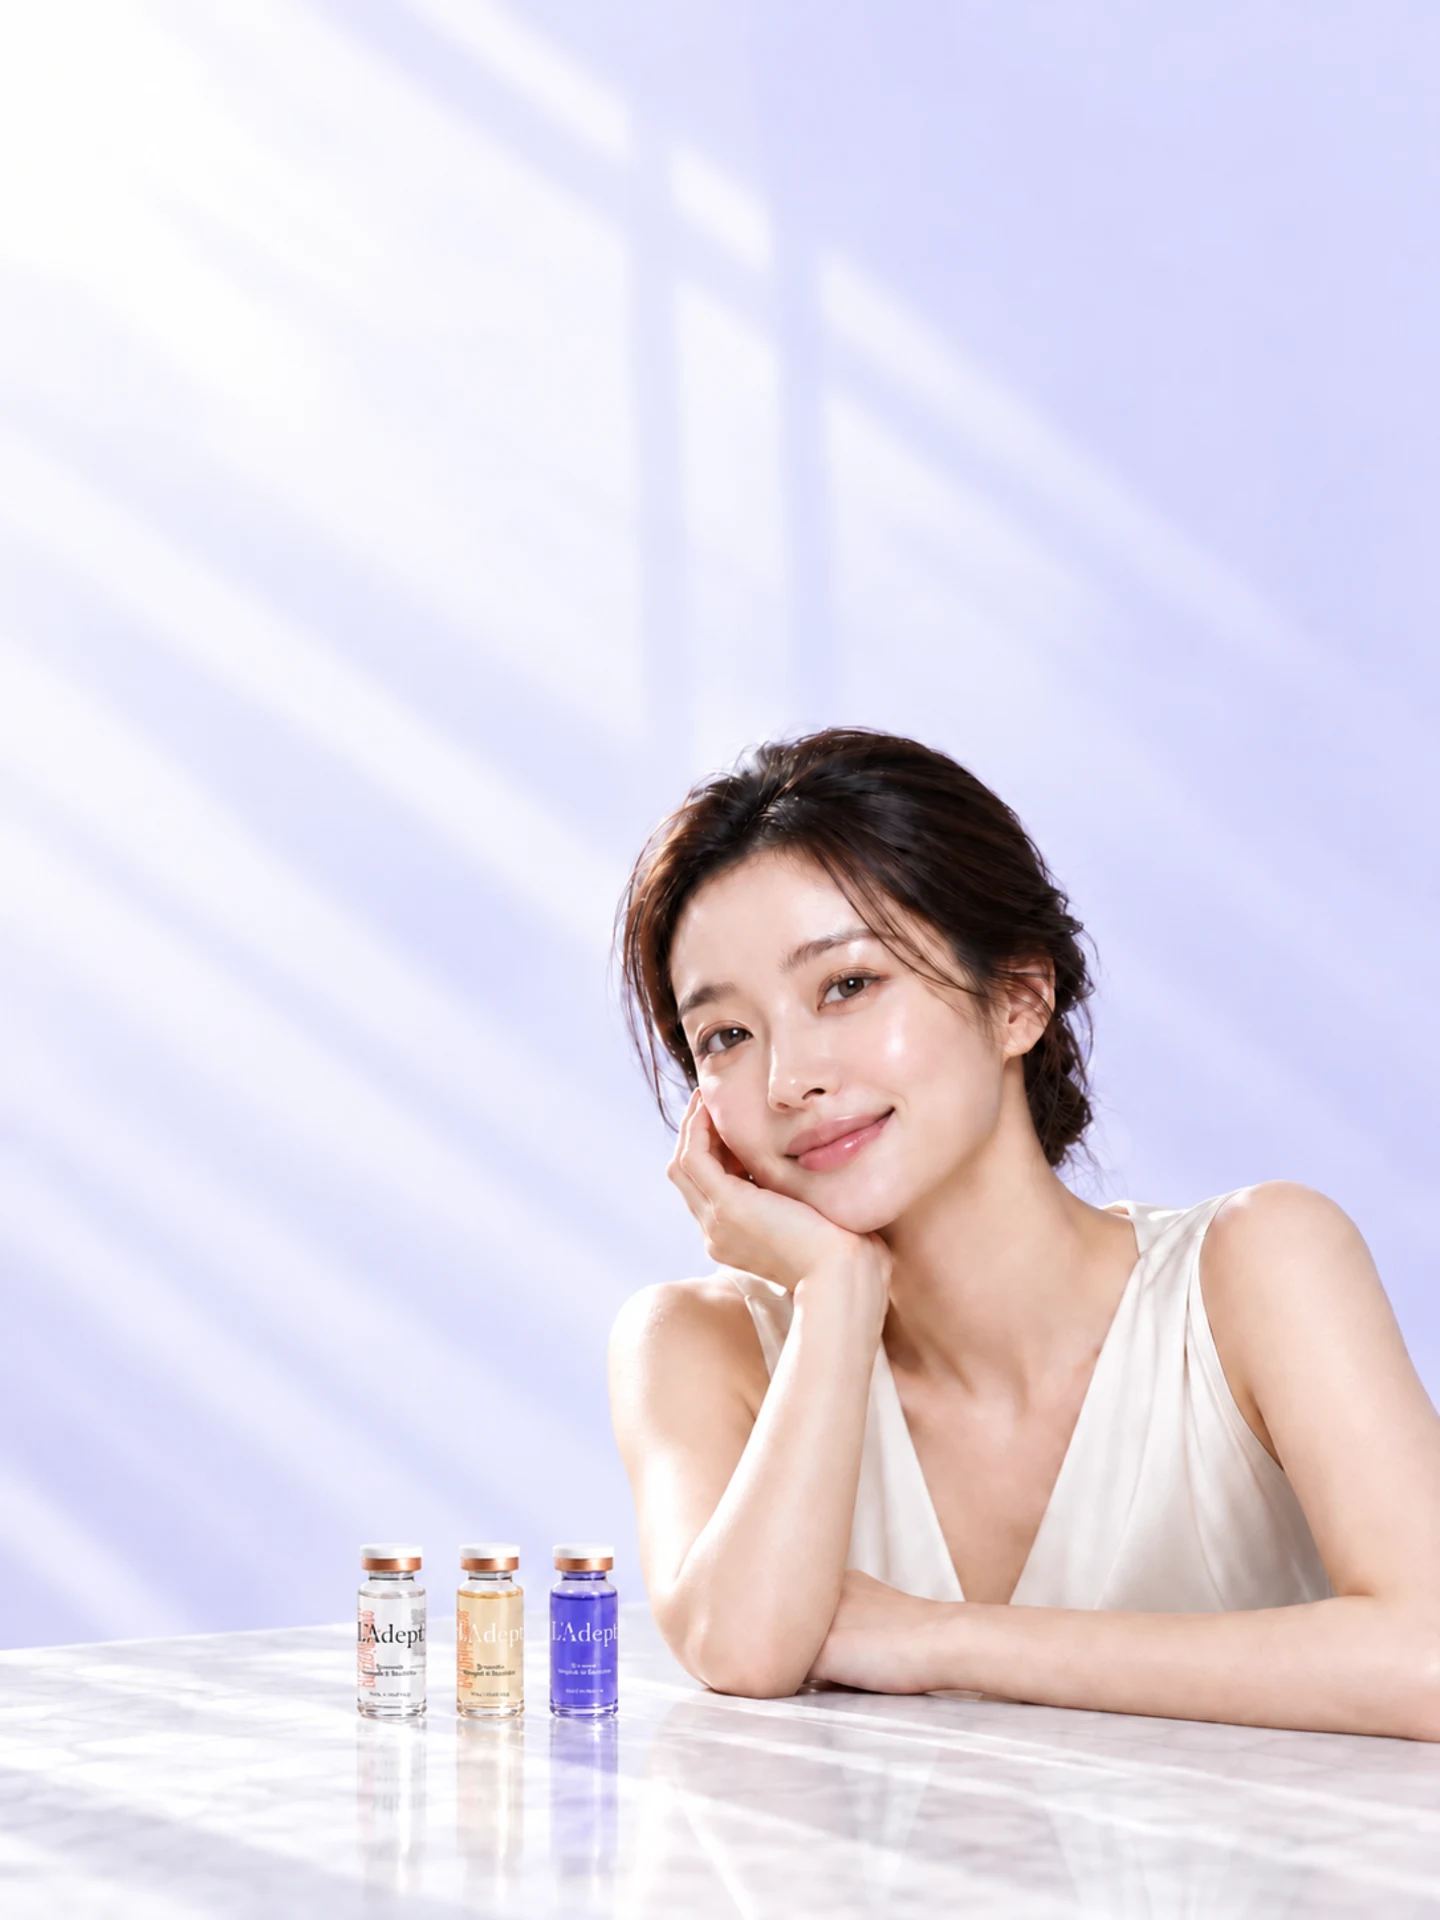
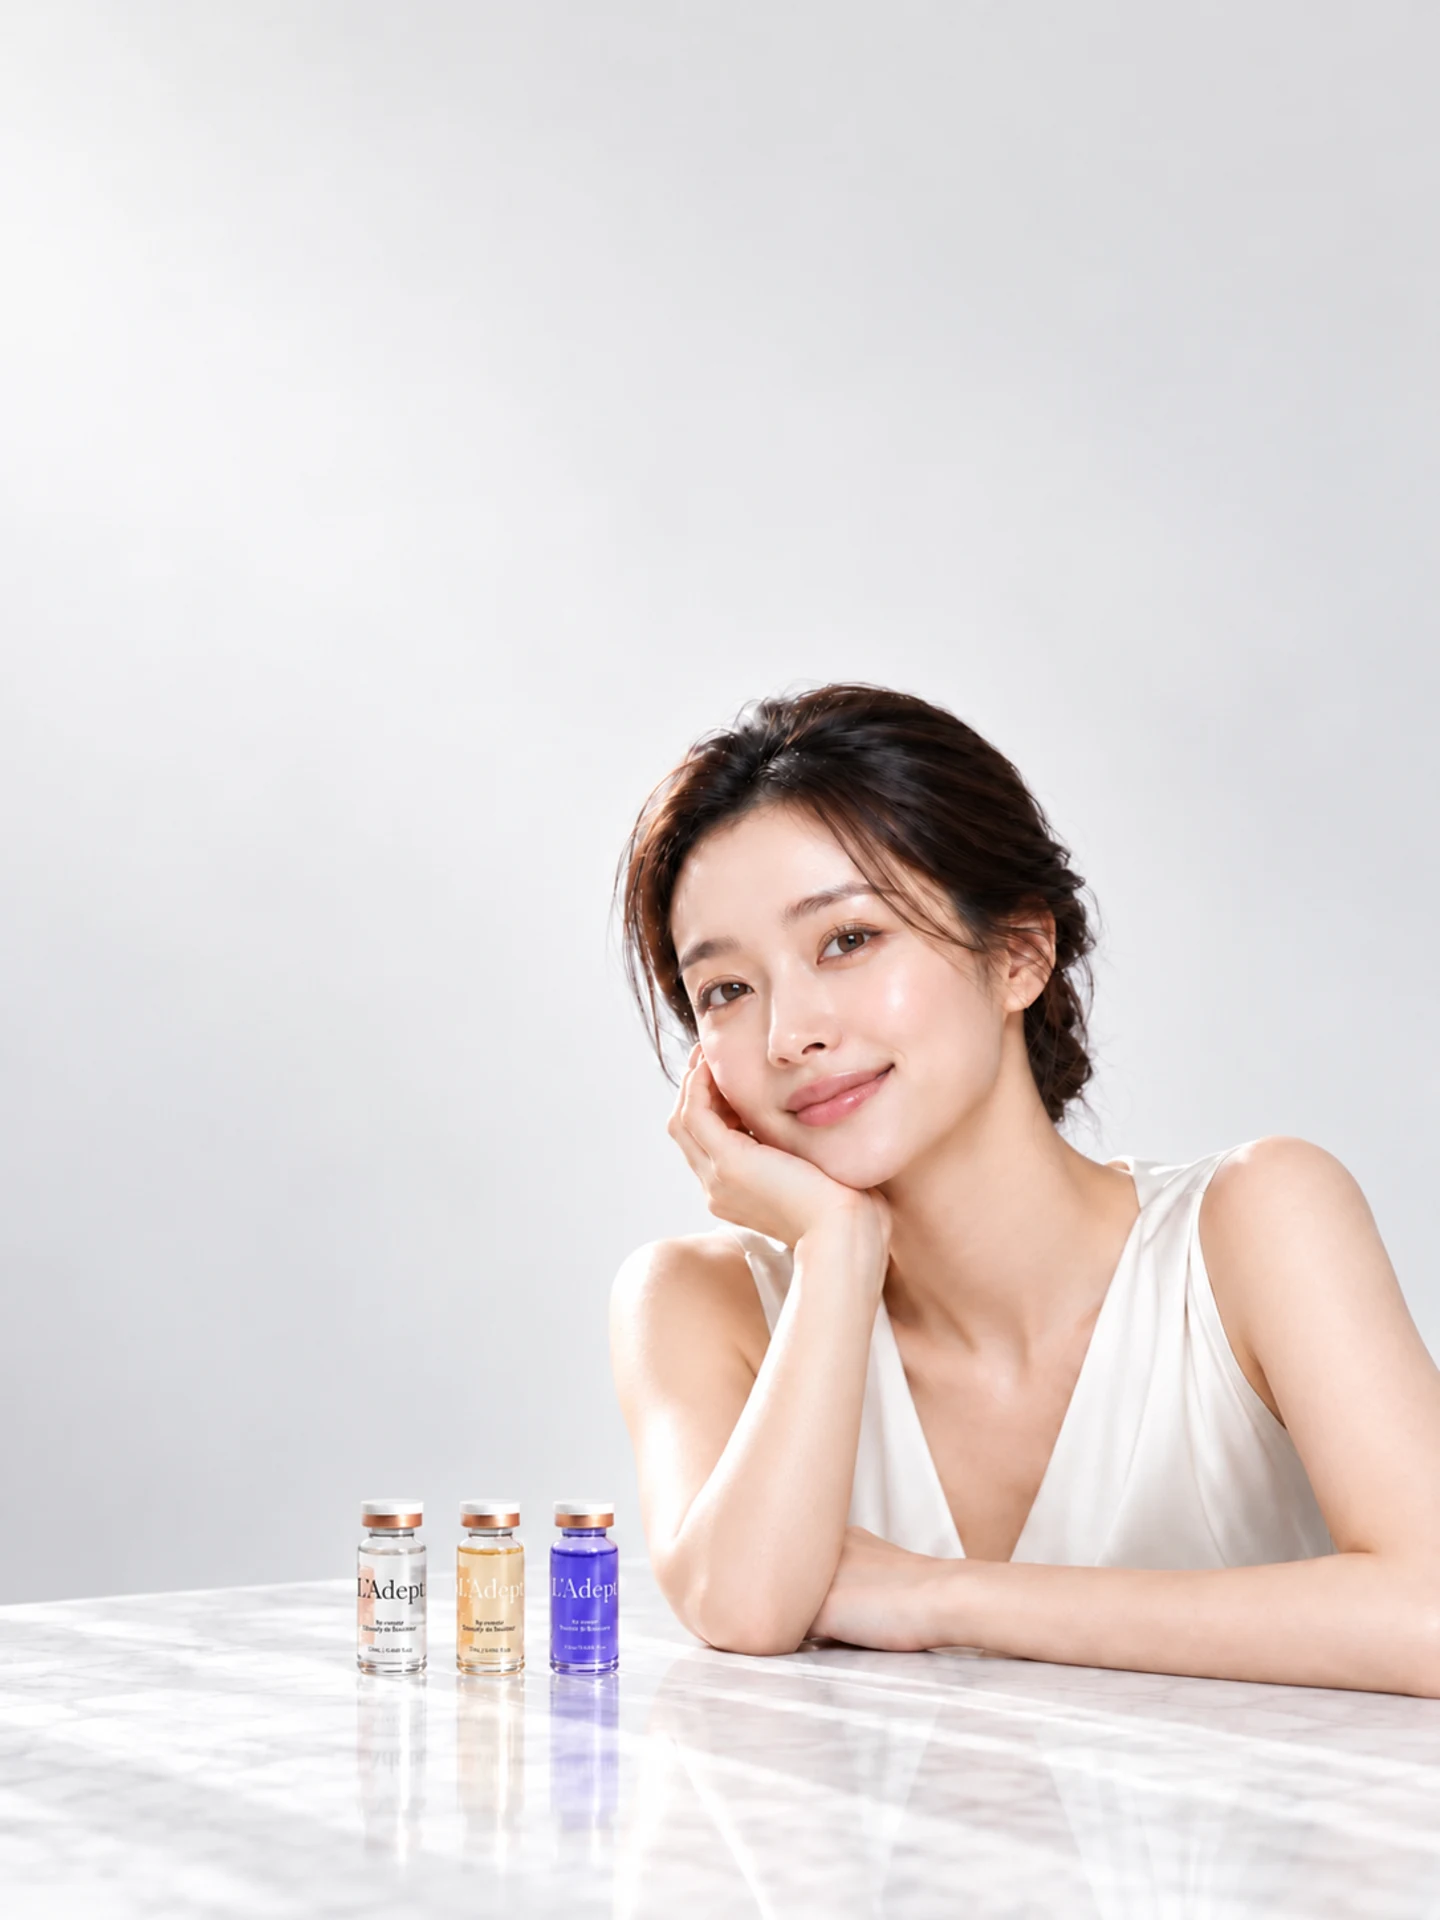
Refresh hero lighting and neutral backdrop; remove old assets

diff --git a/wp-content/et-cache/14/et-core-unified-tb-0-tb-106-deferred-14.min.css b/wp-content/et-cache/14/et-core-unified-tb-0-tb-106-deferred-14.min.css
@@ -1,1 +1,1 @@
-.et_pb_section_0_tb_footer.et_pb_section{padding-top:0px}.et_pb_text_0_tb_footer.et_pb_text{color:#777777!important}.et_pb_text_0_tb_footer{font-family:'Plus Jakarta Sans',Helvetica,Arial,Lucida,sans-serif;font-weight:300}.et_pb_text_0_tb_footer h2{font-family:'DM Serif Text',Georgia,"Times New Roman",serif}.et_pb_text_0_tb_footer h4{font-family:'Plus Jakarta Sans',Helvetica,Arial,Lucida,sans-serif;font-weight:700;font-size:25px}div.et_pb_section.et_pb_section_0{background-image:url(../../uploads/2025/03/hero-1.webp)!important}.et_pb_section_0{height:90vh}.et_pb_row_0,.et_pb_row_6{position:absolute!important;top:50%;bottom:auto;left:50%;right:auto;transform:translateX(-50%) translateY(-50%)}.et_pb_code_0{margin-bottom:1px!important;width:100%}.et_pb_text_0 h2,.et_pb_text_3 h2,.et_pb_text_4 h2,.et_pb_text_5 h2{font-family:'DM Serif Text',Georgia,"Times New Roman",serif;font-size:60px}.et_pb_text_0{padding-top:0px!important;margin-top:0px!important;width:100%}body #page-container .et_pb_section .et_pb_button_0{color:#000000!important;border-radius:200px}body #page-container .et_pb_section .et_pb_button_0:hover{color:#FFFFFF!important;background-image:initial;background-color:#000000}body #page-container .et_pb_section .et_pb_button_0,body #page-container .et_pb_section .et_pb_button_0:hover{padding:0.3em 1em!important}body #page-container .et_pb_section .et_pb_button_0:before,body #page-container .et_pb_section .et_pb_button_0:after{display:none!important}.et_pb_button_0{transition:color 300ms ease 0ms,background-color 300ms ease 0ms;min-width:240px;height:60px;padding:0!important;display:inline-flex!important;align-items:center;justify-content:center;vertical-align:middle}.et_pb_button_0,.et_pb_button_0:after{transition:all 300ms ease 0ms}div.et_pb_section.et_pb_section_3{background-position:left 24% center;background-image:url(../../uploads/2025/03/img2.webp)!important}.et_pb_section_3{height:600px}.et_pb_image_2{text-align:center}.et_pb_text_3 h3{font-family:'DM Serif Text',Georgia,"Times New Roman",serif;font-size:30px;color:#FFFFFF!important}.et_pb_section_4.et_pb_section{padding-top:0px;padding-right:0px;padding-bottom:0px;padding-left:0px;margin-top:0px;margin-bottom:0px;background-color:RGBA(255,255,255,0)!important}.et_pb_row_7,body #page-container .et-db #et-boc .et-l .et_pb_row_7.et_pb_row,body.et_pb_pagebuilder_layout.single #page-container #et-boc .et-l .et_pb_row_7.et_pb_row,body.et_pb_pagebuilder_layout.single.et_full_width_page #page-container #et-boc .et-l .et_pb_row_7.et_pb_row{width:100%;max-width:100%}.et_pb_video_0 .et_pb_video_overlay_hover:hover{background-color:rgba(0,0,0,.6)}.et_pb_image_3{margin-top:70px!important;text-align:left;margin-left:0}.et_pb_row_7.et_pb_row{padding-top:0px!important;padding-right:0px!important;padding-bottom:0px!important;padding-left:0px!important;margin-left:auto!important;margin-right:auto!important;padding-top:0px;padding-right:0px;padding-bottom:0px;padding-left:0px}@media only screen and (max-width:980px){body.logged-in.admin-bar .et_pb_row_0{top:50%}.et_pb_row_0{top:50%;bottom:auto;left:50%;right:auto;transform:translateX(-50%) translateY(-50%)}.et_pb_text_0 h2,.et_pb_text_3 h2,.et_pb_text_4 h2,.et_pb_text_5 h2{font-size:60px}.et_pb_image_2 .et_pb_image_wrap img,.et_pb_image_3 .et_pb_image_wrap img{width:auto}}@media only screen and (max-width:767px){div.et_pb_section.et_pb_section_0{background-image:url(../../uploads/2025/03/herom.webp)!important}body.logged-in.admin-bar .et_pb_row_0{top:65px}.et_pb_row_0{top:65px;bottom:auto;left:50%;right:auto;transform:translateX(-50%) translateY(0px)}.et_pb_text_0 h2,.et_pb_text_3 h2,.et_pb_text_4 h2,.et_pb_text_5 h2{font-size:25px}.et_pb_image_2 .et_pb_image_wrap img,.et_pb_image_3 .et_pb_image_wrap img{width:auto}}
+.et_pb_section_0_tb_footer.et_pb_section{padding-top:0px}.et_pb_text_0_tb_footer.et_pb_text{color:#777777!important}.et_pb_text_0_tb_footer{font-family:'Plus Jakarta Sans',Helvetica,Arial,Lucida,sans-serif;font-weight:300}.et_pb_text_0_tb_footer h2{font-family:'DM Serif Text',Georgia,"Times New Roman",serif}.et_pb_text_0_tb_footer h4{font-family:'Plus Jakarta Sans',Helvetica,Arial,Lucida,sans-serif;font-weight:700;font-size:25px}div.et_pb_section.et_pb_section_0{background-image:url(../../uploads/2025/03/hero-model-products-2026.webp)!important}.et_pb_section_0{height:90vh}.et_pb_row_0,.et_pb_row_6{position:absolute!important;top:50%;bottom:auto;left:50%;right:auto;transform:translateX(-50%) translateY(-50%)}.et_pb_code_0{margin-bottom:1px!important;width:100%}.et_pb_text_0 h2,.et_pb_text_3 h2,.et_pb_text_4 h2,.et_pb_text_5 h2{font-family:'DM Serif Text',Georgia,"Times New Roman",serif;font-size:60px}.et_pb_text_0{padding-top:0px!important;margin-top:0px!important;width:100%}body #page-container .et_pb_section .et_pb_button_0{color:#000000!important;border-radius:200px}body #page-container .et_pb_section .et_pb_button_0:hover{color:#FFFFFF!important;background-image:initial;background-color:#000000}body #page-container .et_pb_section .et_pb_button_0,body #page-container .et_pb_section .et_pb_button_0:hover{padding:0.3em 1em!important}body #page-container .et_pb_section .et_pb_button_0:before,body #page-container .et_pb_section .et_pb_button_0:after{display:none!important}.et_pb_button_0{transition:color 300ms ease 0ms,background-color 300ms ease 0ms;min-width:240px;height:60px;padding:0!important;display:inline-flex!important;align-items:center;justify-content:center;vertical-align:middle}.et_pb_button_0,.et_pb_button_0:after{transition:all 300ms ease 0ms}div.et_pb_section.et_pb_section_3{background-position:left 24% center;background-image:url(../../uploads/2025/03/img2.webp)!important}.et_pb_section_3{height:600px}.et_pb_image_2{text-align:center}.et_pb_text_3 h3{font-family:'DM Serif Text',Georgia,"Times New Roman",serif;font-size:30px;color:#FFFFFF!important}.et_pb_section_4.et_pb_section{padding-top:0px;padding-right:0px;padding-bottom:0px;padding-left:0px;margin-top:0px;margin-bottom:0px;background-color:RGBA(255,255,255,0)!important}.et_pb_row_7,body #page-container .et-db #et-boc .et-l .et_pb_row_7.et_pb_row,body.et_pb_pagebuilder_layout.single #page-container #et-boc .et-l .et_pb_row_7.et_pb_row,body.et_pb_pagebuilder_layout.single.et_full_width_page #page-container #et-boc .et-l .et_pb_row_7.et_pb_row{width:100%;max-width:100%}.et_pb_video_0 .et_pb_video_overlay_hover:hover{background-color:rgba(0,0,0,.6)}.et_pb_image_3{margin-top:70px!important;text-align:left;margin-left:0}.et_pb_row_7.et_pb_row{padding-top:0px!important;padding-right:0px!important;padding-bottom:0px!important;padding-left:0px!important;margin-left:auto!important;margin-right:auto!important;padding-top:0px;padding-right:0px;padding-bottom:0px;padding-left:0px}@media only screen and (max-width:980px){body.logged-in.admin-bar .et_pb_row_0{top:50%}.et_pb_row_0{top:50%;bottom:auto;left:50%;right:auto;transform:translateX(-50%) translateY(-50%)}.et_pb_text_0 h2,.et_pb_text_3 h2,.et_pb_text_4 h2,.et_pb_text_5 h2{font-size:60px}.et_pb_image_2 .et_pb_image_wrap img,.et_pb_image_3 .et_pb_image_wrap img{width:auto}}@media only screen and (max-width:767px){div.et_pb_section.et_pb_section_0{background-image:url(../../uploads/2025/03/hero-model-products-mobile-2026.webp)!important}body.logged-in.admin-bar .et_pb_row_0{top:65px}.et_pb_row_0{top:65px;bottom:auto;left:50%;right:auto;transform:translateX(-50%) translateY(0px)}.et_pb_text_0 h2,.et_pb_text_3 h2,.et_pb_text_4 h2,.et_pb_text_5 h2{font-size:25px}.et_pb_image_2 .et_pb_image_wrap img,.et_pb_image_3 .et_pb_image_wrap img{width:auto}}
